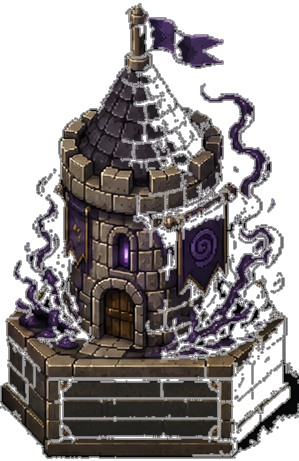
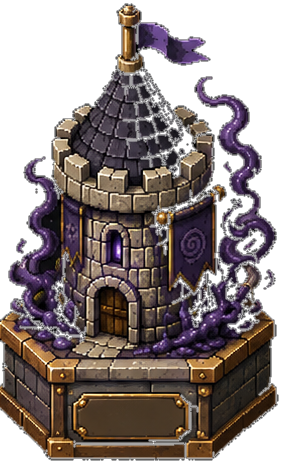
Regenerate elemental + ranged tower art from the shadow-gradient-fixed sheet
The regeneration prompt logged in the previous commit worked. Replaced all
9 tower_elem_*.png plus tower_ranged_base.png (the sheet's "Normal" cell)
from assets/source/towers/towers_remade.png - included Normal even though
this was framed as "elemental towers" since ranged and elemental share one
source sheet by design, and leaving tower_ranged_base.png on the old
pedestal style would have reintroduced a style mismatch between them.

Slicing was clean on the first real attempt this time: grid-gap detection
was consistent (vs. noisy on both prior sheets), and no interior holes
appeared even at dist<18 (previous sheet needed dist<16 and broke at 22).
New pedestal design (thicker gold-trimmed rectangular plaque frame) is a
genuine visual upgrade over the old plain-panel pedestal.

Live-verified via Godot MCP: all 4 tower archetypes resolve correctly with
zero errors, screenshot confirms clean render with the new pedestal design.

diff --git a/design/art/asset-generation-prompts.md b/design/art/asset-generation-prompts.md
@@ -118,7 +118,20 @@ just compensating for it in post — the source sheet's ambient-occlusion
 shadow on the pedestal/lower tower body blends too close to the background
 color to cleanly threshold, forcing every future slice of this sheet to
 rediscover the right threshold by trial and error.
-**Status:** Prompt drafted, not yet generated.
+**Status:** Generated, sliced, and wired (2026-08-02) as
+`assets/source/towers/towers_remade.png`. The fix worked — no more interior
+holes even at a much less aggressive alpha-cut threshold (`dist < 18` vs. the
+previous sheet's fragile `dist < 16`/breaks-at-22), gap detection between
+grid cells was clean/consistent on the first try (vs. the noisy inconsistent
+gaps on both prior sheets), and the pedestal redesign (thicker gold-trimmed
+rectangular plaque frame) is a genuine style improvement. Replaced all 9
+`tower_elem_*.png` plus `tower_ranged_base.png` (the sheet's "Normal" cell) —
+deliberately included Normal even though this request was scoped to
+"elemental towers," since `ranged` and `elemental` share one source sheet by
+design and leaving `tower_ranged_base.png` on the old pedestal style would
+have reintroduced a style mismatch between them. Live-verified via Godot MCP:
+all 4 archetypes resolve correctly, zero errors, screenshot confirms the new
+pedestal design renders cleanly.
 
 ```
 Isometric fantasy game asset sheet, 10 stone castle towers arranged in a 5×2
